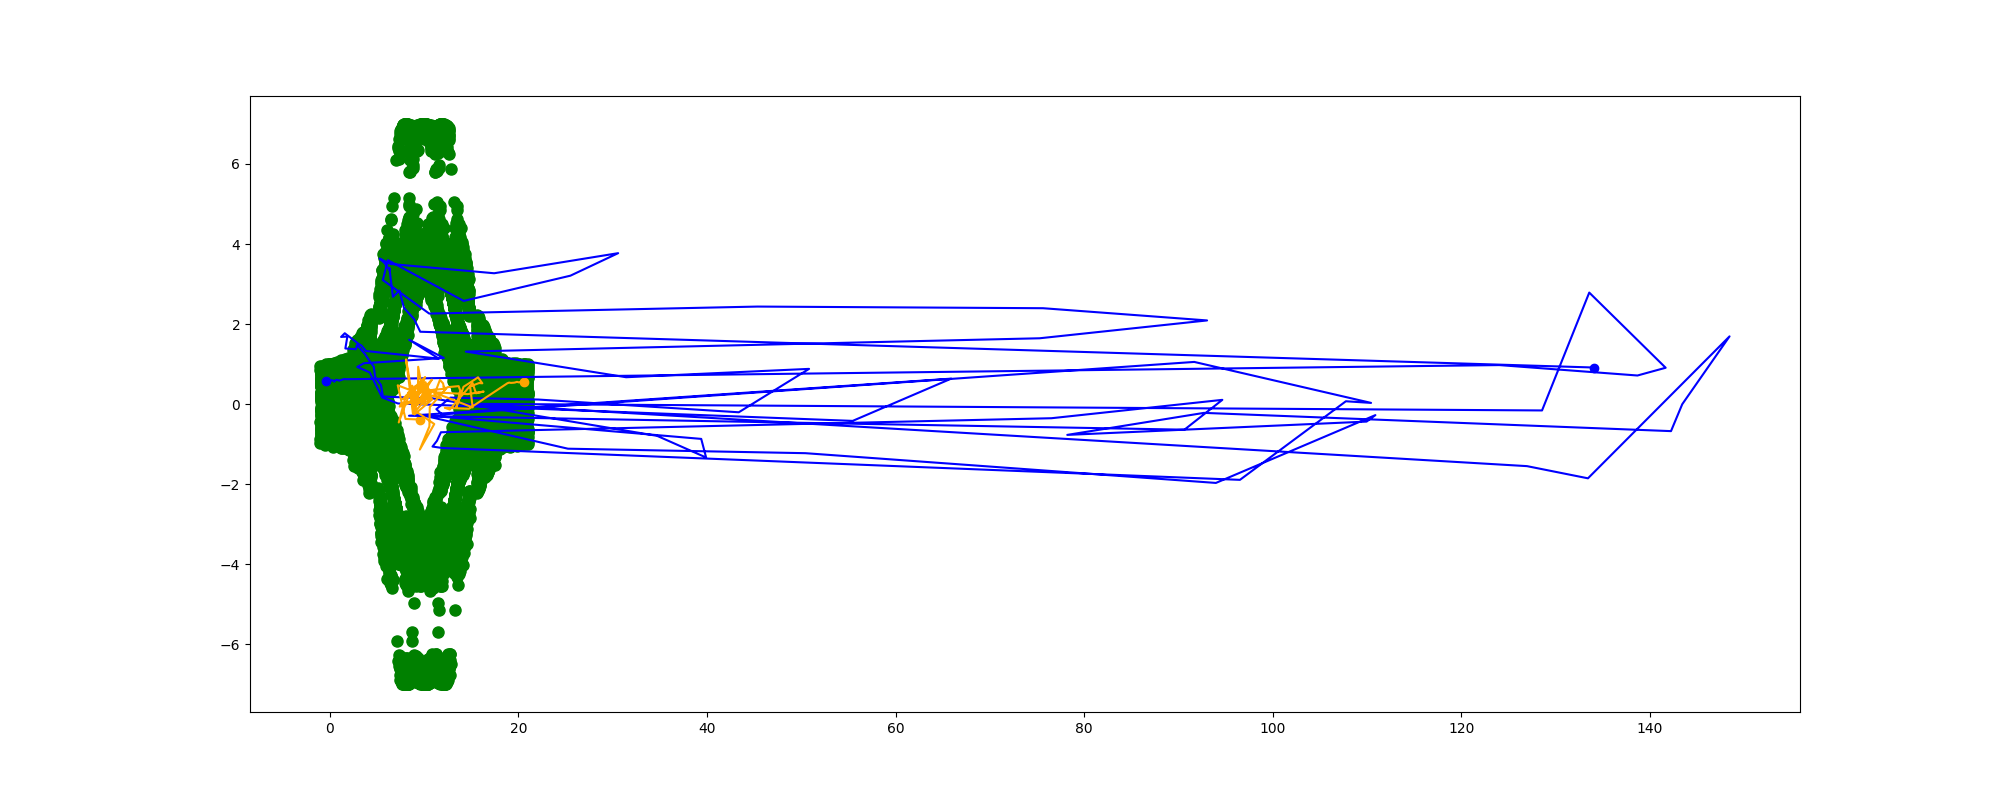
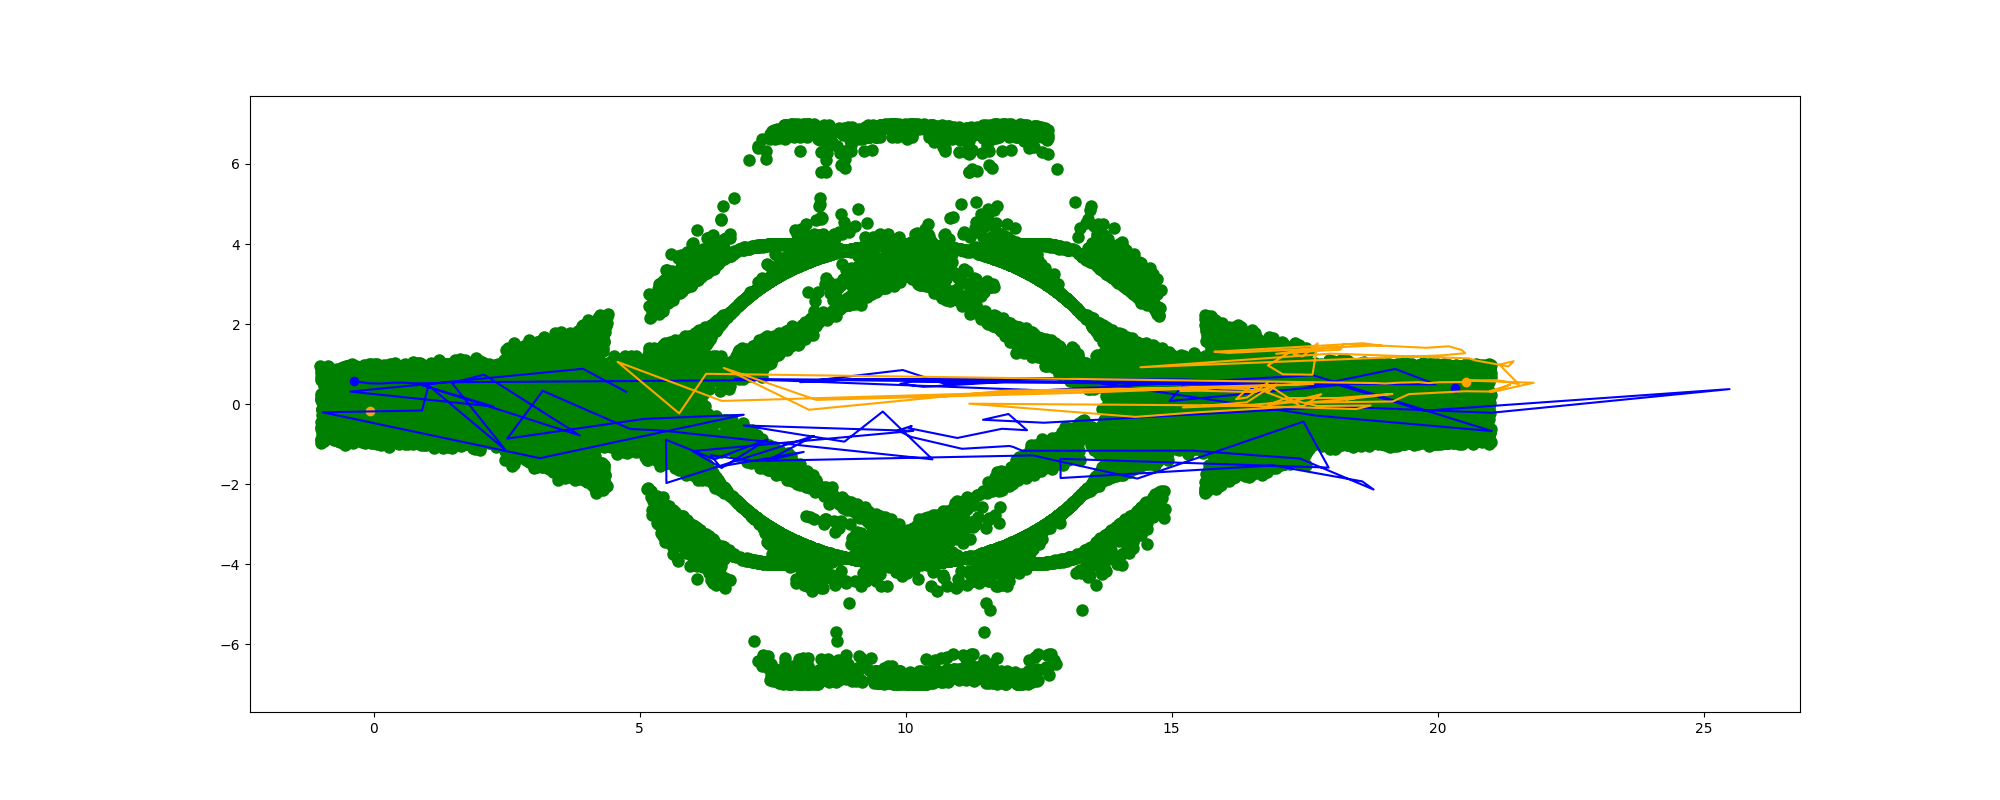
splice results, fixed glaring issue but still bad trajectories

Changed region(s): [[0.155, 0.125, 0.868, 0.875], [0.372, 0.125, 0.527, 0.2188], [0.186, 0.7812, 0.248, 0.875]]

diff --git a/ctde_conditional/conditional_training_splice.py b/ctde_conditional/conditional_training_splice.py
@@ -6,9 +6,11 @@ import matplotlib.pyplot as plt
 from discrete import *
 import sys
 import pdb
+import csv
 
 device = torch.device("cuda" if torch.cuda.is_available() else "cpu")
 
+# Parameters
 n_gradient_steps = 100_000
 batch_size = 64
 model_size = {"d_model": 256, "n_heads": 4, "depth": 3}
@@ -19,10 +21,9 @@ initial_point_up = np.array([0.0, 0.0])
 final_point_up = np.array([20.0, 0.0])
 final_point_down = np.array([0.0, 0.0])
 initial_point_down = np.array([20.0, 0.0])
-obstacle = (10, 0, 4.0)  # Single central obstacle: (x, y, radius)
+obstacle = (10, 0, 4.0) 
 
-# loading the trajectories
-import csv
+# Loading training trajectories
 all_points1 = []    # want modes 1, 2, 4, 6
 all_points2 = []    # want modes 1, 2, 3, 5
 with open('data/trajs_noise1.csv', 'r') as file:
@@ -57,28 +58,33 @@ expert_data1 = np.array(expert_data1)
 expert_data2 = np.array(expert_data2)
 
 
+
+# Unspliced trajectories to get final positions
 orig1 = [
     all_points1[i * 100:(i + 1) * 100]
     for i in range(1000)
 ]
-
 orig2 = [
     all_points2[i * 100:(i + 1) * 100]
     for i in range(1000)
 ]
-
 orig1 = np.array(orig1)
 orig2 = np.array(orig2)
 
-
-# Compute mean and standard deviation
-combined_data = np.concatenate((expert_data1, expert_data2), axis=0)
-mean = np.mean(combined_data, axis=(0,1))
-std = np.std(combined_data, axis=(0,1))
-
-# Normalize data
+combined_data1 = np.concatenate((expert_data1, expert_data2), axis=0)
+combined_data2 = np.concatenate((orig1, orig2), axis=0)
+mean1 = np.mean(combined_data1, axis=(0,1))
+std1 = np.std(combined_data1, axis=(0,1))
+mean2 = np.mean(combined_data2, axis=(0,1))
+std2 = np.std(combined_data2, axis=(0,1))
+mean = (mean1 + mean2)/2
+std = (std1 + std2)/2
 expert_data1 = (expert_data1 - mean) / std
 expert_data2 = (expert_data2 - mean) / std
+orig1 = (orig1 - mean) / std
+orig2 = (orig2 - mean) / std
+
+
 
 # Prepare Data for Training
 X_train1 = []
@@ -103,19 +109,19 @@ for traj in expert_data2:
 X_train2 = torch.tensor(np.array(X_train2), dtype=torch.float32)  # Shape: (N, 4)
 Y_train2 = torch.tensor(np.array(Y_train2), dtype=torch.float32)  # Shape: (N, 2)
 
-# define an enviornment objcet which has attrubutess like name, state_size, action_size etc
+# Define environment
 class TwoUnicycle():
     def __init__(self, state_size=2, action_size=2):
         self.state_size = state_size
         self.action_size = action_size
         self.name = "TwoUnicycle"
-
 env = TwoUnicycle()
 
+
+
+# Setting up training data
 obs_init1 = expert_data1[:, 0, :]
 obs_init2 = expert_data2[:, 0, :]
-# obs_final1 = expert_data1[:, -1, :]
-# obs_final2 = expert_data2[:, -1, :]
 obs_final1 = np.repeat(orig1[:, -1, :], repeats=10, axis=0)
 obs_final2 = np.repeat(orig2[:, -1, :], repeats=10, axis=0)
 obs1 = np.hstack([obs_init1, obs_final1])
@@ -142,10 +148,13 @@ sigma_data2 = actions2.std().item()
 
 # Training
 action_cond_ode = Conditional_ODE(env, [attr_dim1, attr_dim2], [sigma_data1, sigma_data2], device=device, N=100, n_models = 2, **model_size)
-# action_cond_ode.train([actions1, actions2], [attr1, attr2], int(5*n_gradient_steps), batch_size, extra="_T10")
-# action_cond_ode.save(extra="_T10")
-action_cond_ode.load(extra="_T10")
+action_cond_ode.train([actions1, actions2], [attr1, attr2], int(5*n_gradient_steps), batch_size, extra="_T10")
+action_cond_ode.save(extra="_T10")
+# action_cond_ode.load(extra="_T10")
 
+
+
+# Sampling preparation
 noise_std = 0.
 noise = np.ones(np.shape(obs_temp1))
 obs_temp1 = obs_temp1 + noise_std * noise
@@ -161,8 +170,9 @@ ref2 = np.mean(expert_data2, axis=0)
 ref_agent1 = ref1[:, :]
 ref_agent2 = ref2[:, :]
 
-# breakpoint()
 
+
+# Sampling
 for i in range(10):
     attr_t1 = attr_test1[i*10].unsqueeze(0)
     attr_t2 = attr_test2[i*10].unsqueeze(0)

diff --git a/ctde_conditional/conditional_Action_DiT.py b/ctde_conditional/conditional_Action_DiT.py
@@ -567,7 +567,7 @@ class Conditional_ODE():
         
         x = torch.randn((n_samples, traj_len, self.action_size), device=self.device) * self.sigma_s[0] * self.scale_s[0]
         x[:, 0, :self.state_size] = attr[:, :self.state_size]
-        x[:, -1, :self.state_size] = attr[:, self.state_size:]
+        # x[:, -1, :self.state_size] = attr[:, self.state_size:]
         original_attr = attr.clone()
         
         attr_mask = torch.ones_like(attr)
@@ -588,7 +588,7 @@ class Conditional_ODE():
             dt = self.t_s[i] - self.t_s[i+1] if i != self.N - 1 else self.t_s[i]
             x = x - delta * dt
             x[:, 0, :self.state_size] = original_attr[:, :self.state_size]
-            x[:, -1, :self.state_size] = original_attr[:, self.state_size:]
+            # x[:, -1, :self.state_size] = original_attr[:, self.state_size:]
         return x
     
     def save(self, extra: str = ""):
